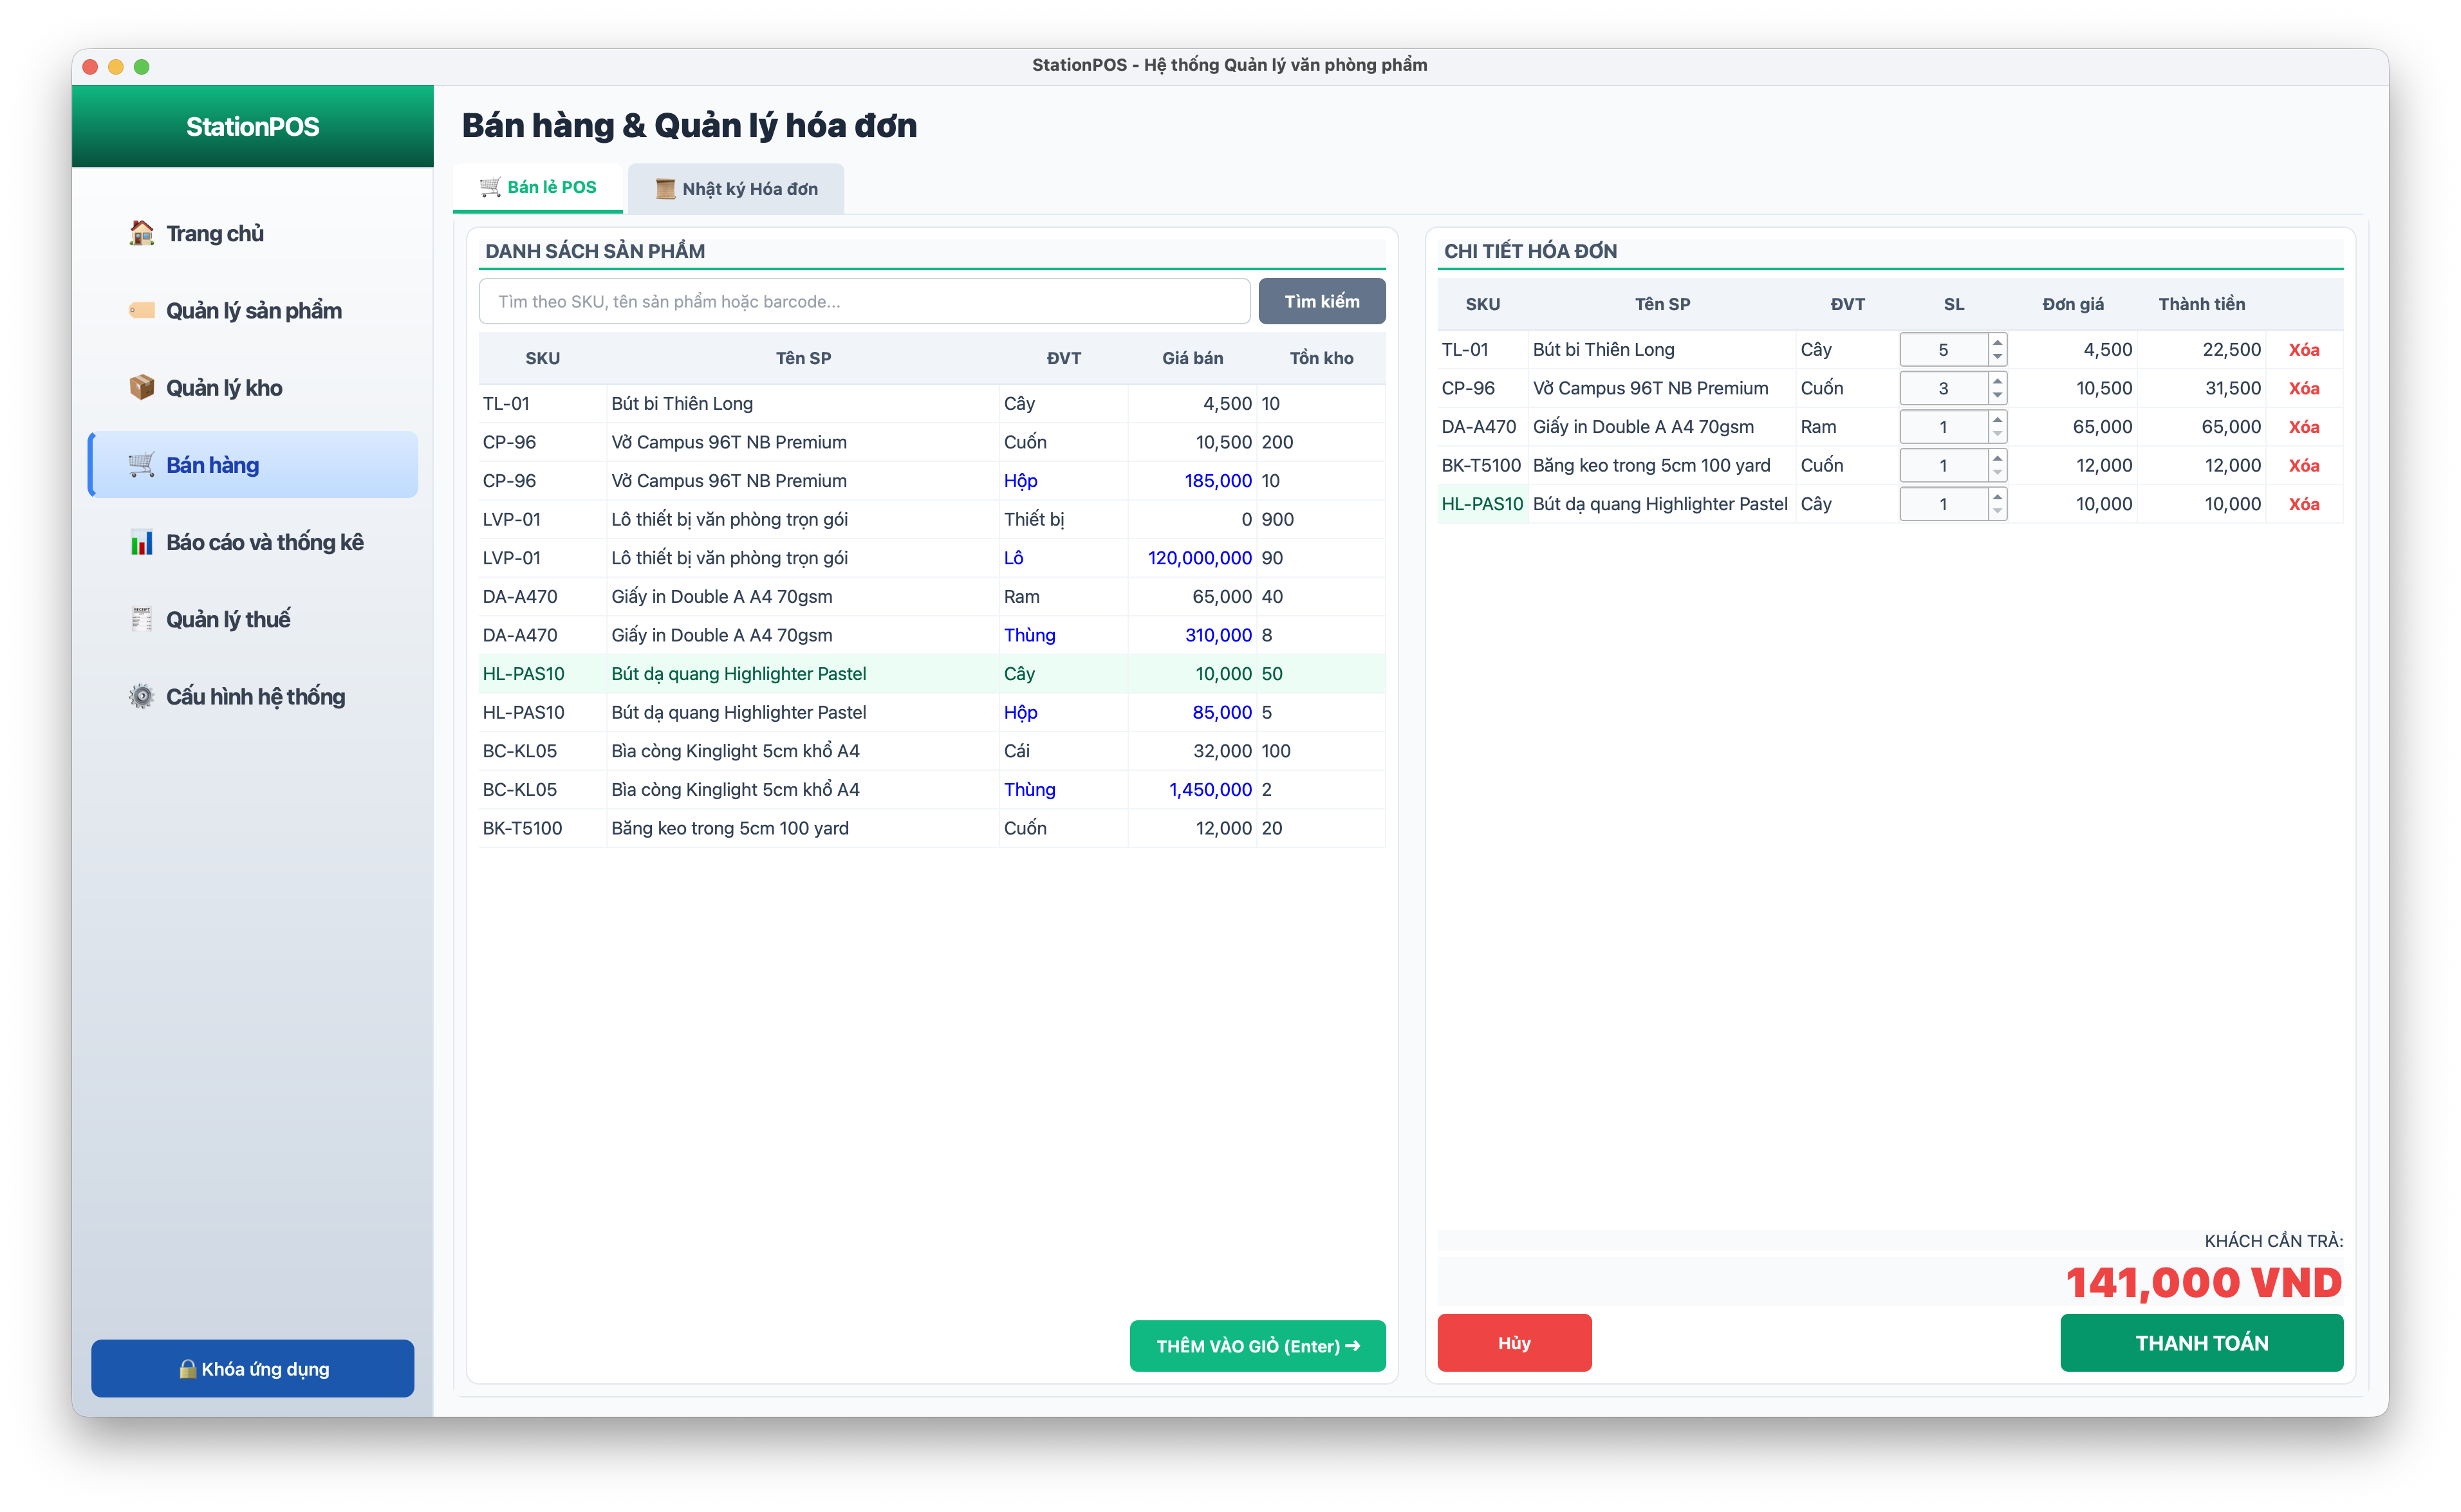
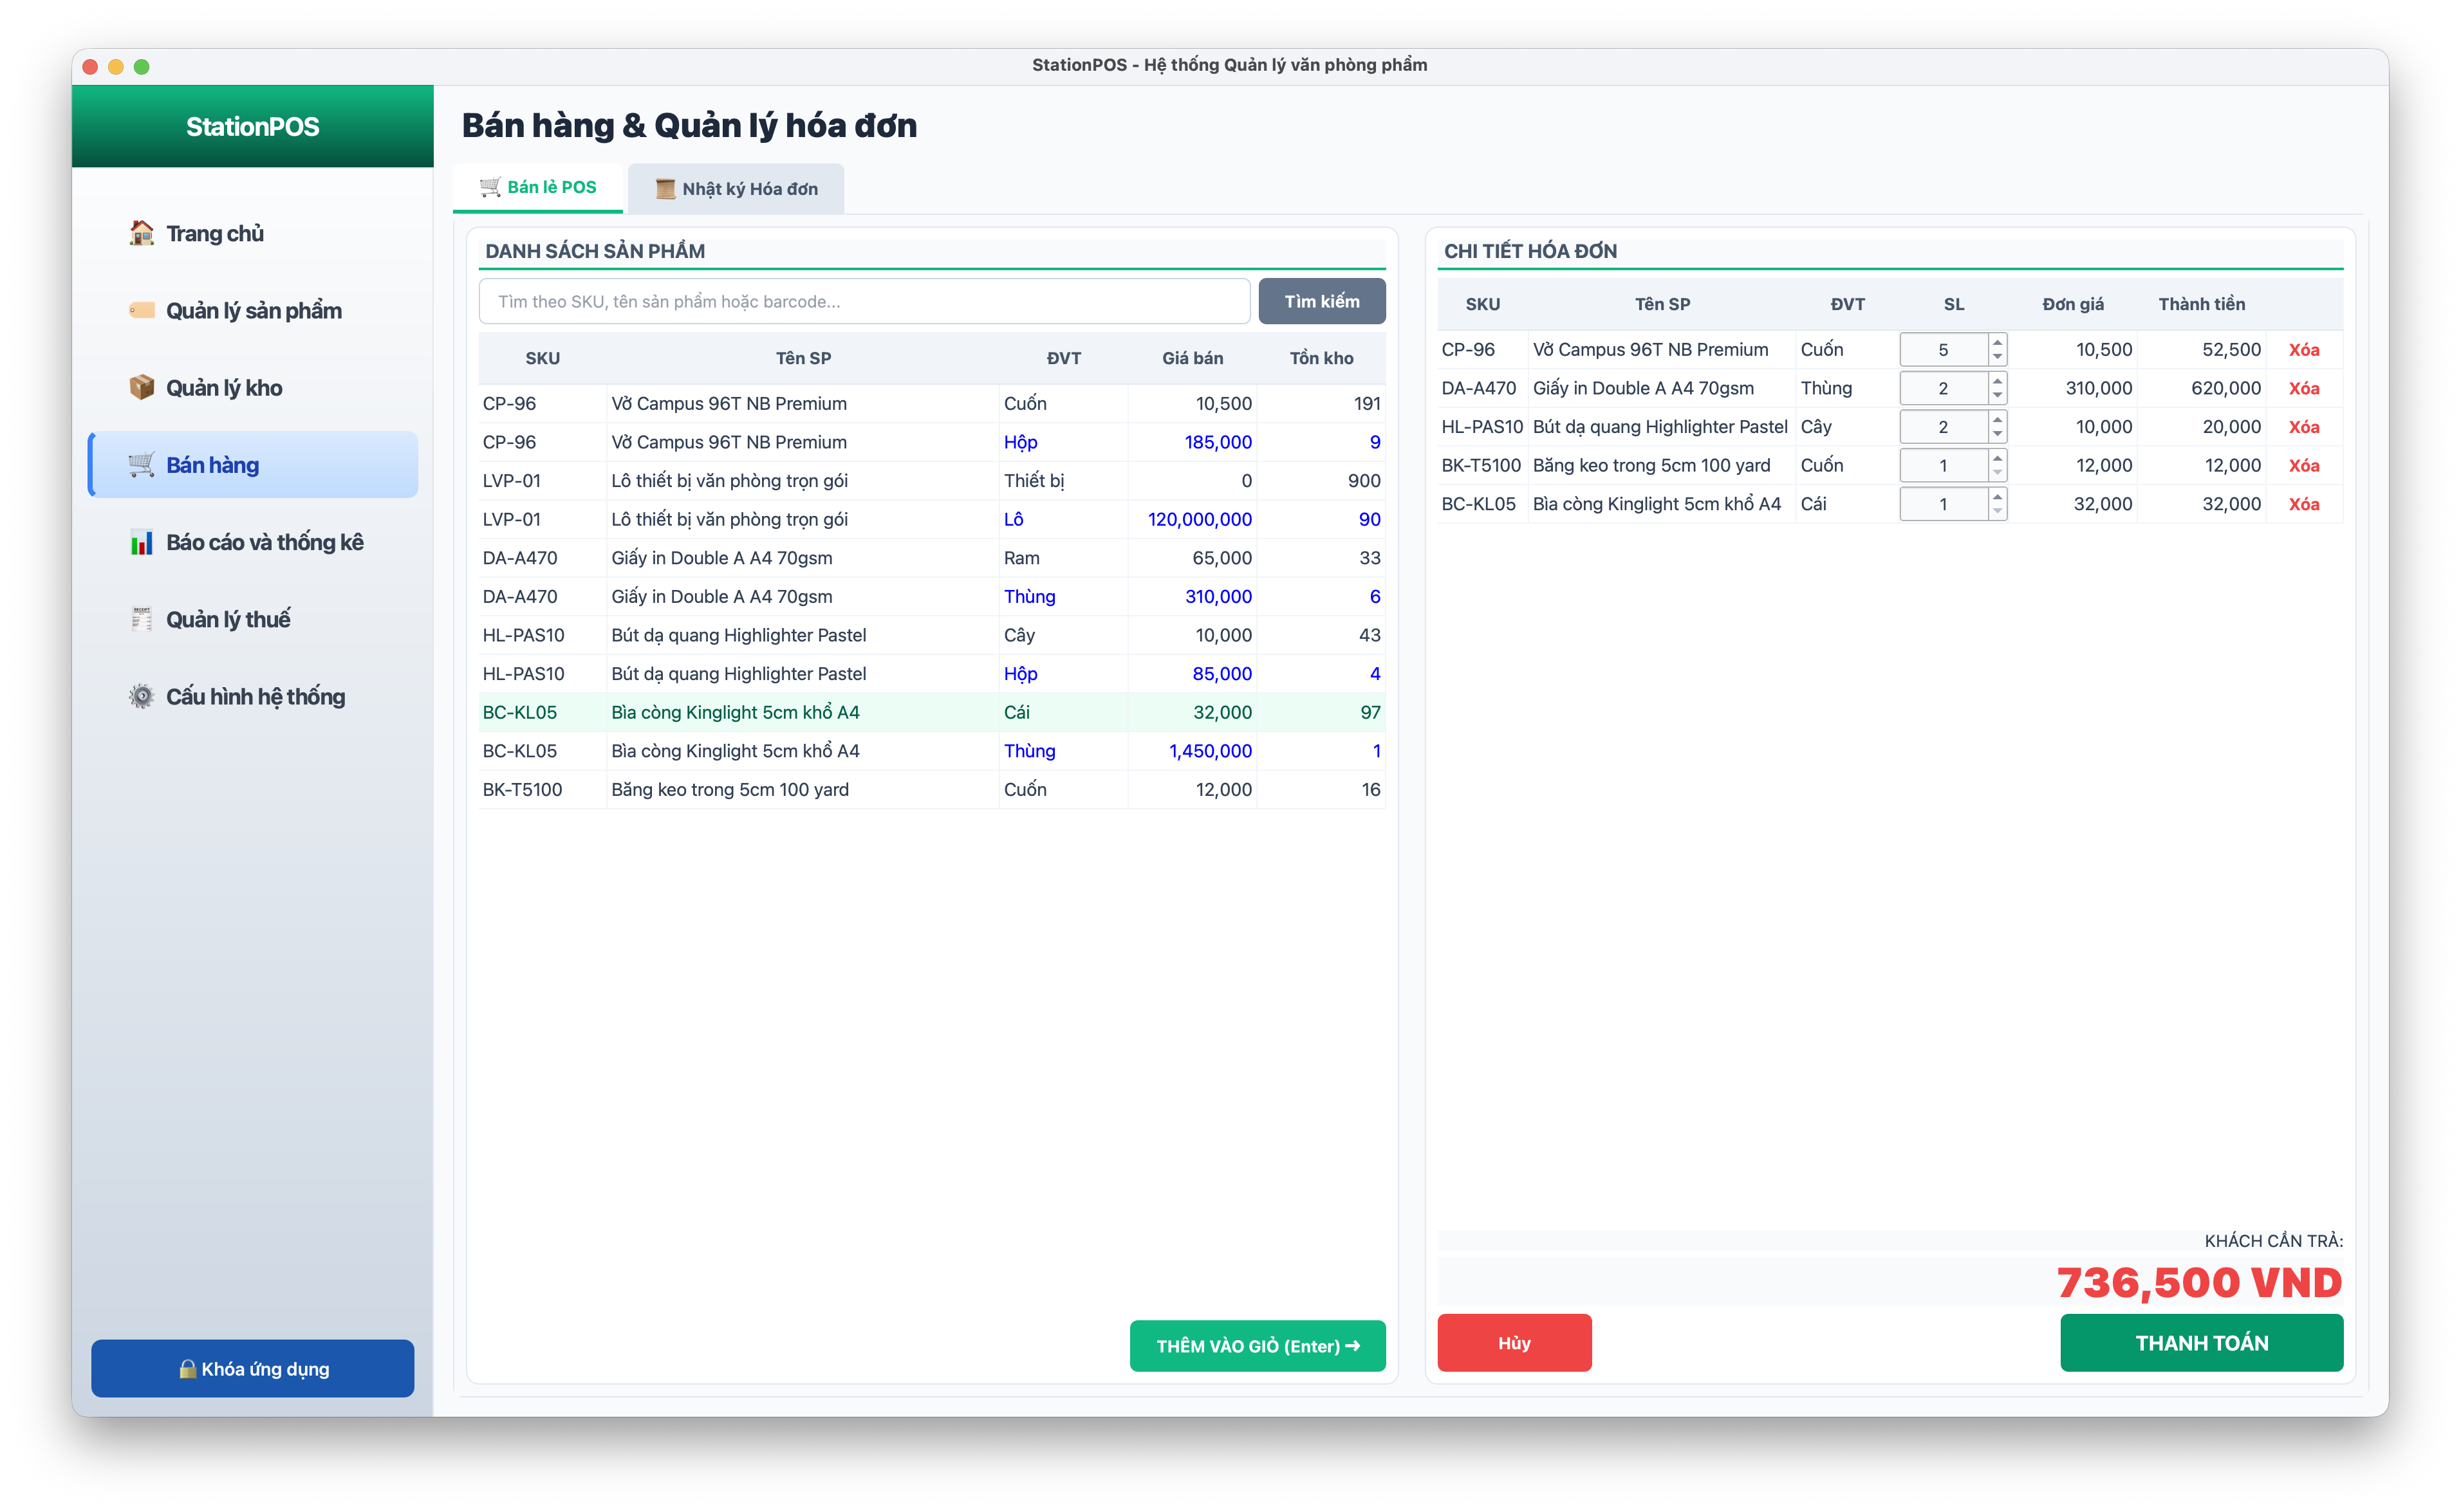
docs: update readme

diff --git a/README.md b/README.md
@@ -117,7 +117,7 @@ Hệ thống bóc tách mã nguồn thành 4 tầng kiến trúc tách biệt đ
   </p>
 
 
-* **Quản Lý Danh Mục Sản Phẩm:** Quản lý hàng hóa dựa trên mã SKU và Barcode 13 số độc nhất. Hỗ trợ chức năng **Xóa mềm (`is_active = FALSE`)** giúp ẩn sản phẩm khỏi quầy bán nhưng giữ nguyên thực thể cấu trúc trên hóa đơn cũ và báo cáo để bảo toàn tính toàn vẹn dữ liệu tài chính.
+* **Quản Lý Danh Mục Sản Phẩm:** Quản lý hàng hóa dựa trên mã SKU và Barcode. Hỗ trợ chức năng **Xóa mềm (`is_active = FALSE`)** giúp ẩn sản phẩm khỏi quầy bán nhưng giữ nguyên thực thể cấu trúc trên hóa đơn cũ và báo cáo để bảo toàn tính toàn vẹn dữ liệu tài chính.
 * **Minh họa giao diện:**
   <p align="center">
     <img src="assets/screenshots/2_product_management.png" width="850" alt="Giao diện Quản lý Sản phẩm">
@@ -162,7 +162,7 @@ Hệ thống bóc tách mã nguồn thành 4 tầng kiến trúc tách biệt đ
 
 ### Điểm hạn chế
 
-* **Kiến trúc đơn chủ cục bộ:** Phần mềm hiện tại mới chỉ thiết kế chạy Offline cho kịch bản một người vận hành duy nhất (Chủ cửa hàng), chưa hỗ trợ đa máy trạm đồng thời và chưa phân quyền vai trò chuyên sâu (Thu ngân, Thủ kho, Quản lý).
+* **Kiến trúc đơn chủ cục bộ:** Phần mềm hiện tại mới chỉ thiết kế chạy Offline cho kịch bản cửa hàng nhỏ lẻ - một người vận hành duy nhất (Chủ cửa hàng), chưa hỗ trợ đa máy trạm đồng thời và chưa phân quyền vai trò chuyên sâu (Thu ngân, Thủ kho, Quản lý).
 
 
 * **Giả lập tương tác thiết bị vật lý:** Các nghiệp vụ tương tác phần cứng tại quầy mới dừng ở mức xử lý dữ liệu và giả lập hệ thống (Lệnh in bill kết nối Driver máy in mô phỏng), chưa độc lập nhận tín hiệu trực tiếp từ máy quét mã vạch cổng COM hay két tiền tự động nhảy.
@@ -249,17 +249,31 @@ station-pos/
 
 ## 🚀 Hướng Dẫn Cài Đặt & Khởi Chạy
 
-### Bước 1: Khởi tạo cấu trúc Cơ sở dữ liệu
 
-1. Khởi động dịch vụ MySQL Server trên máy tính (Thông qua XAMPP, Docker hoặc dịch vụ Local Services).
-2. Sử dụng Terminal để thực thi script cấu trúc nền tảng cho database chạy thật (`pos_vpp`):
+### Bước 1: Tải mã nguồn và Khởi tạo Cơ sở dữ liệu
+
+1. Mở Terminal (CMD/PowerShell trên Windows hoặc Terminal trên macOS) và chạy lệnh clone để tải dự án về máy:
+```bash
+git clone https://github.com/minhtoan3131/stationpos-python-coursework-basic.git
+
+```
+
+2. Di chuyển vào bên trong thư mục dự án vừa tải:
+
+```bash
+cd stationpos-python-coursework-basic
+
+```
+
+3. Khởi động dịch vụ MySQL Server trên máy tính (Thông qua XAMPP, Docker hoặc dịch vụ Local Services).
+4. Thực thi script cấu trúc nền tảng cho database chạy thật (`pos_vpp`):
 
 ```bash
 mysql -u root -p < database/schema.sql
 
 ```
 
-3. Nếu muốn chạy được test, sử dụng Terminal để thực thi script cấu trúc nền tảng cho database test (`pos_vpp_test`) giống hệt database chạy thật:
+5. Nếu muốn chạy được test, thực thi tiếp lệnh sau để tạo cấu trúc cho database test (`pos_vpp_test`):
 
 ```bash
 mysql -u root -p < database/schema_test.sql